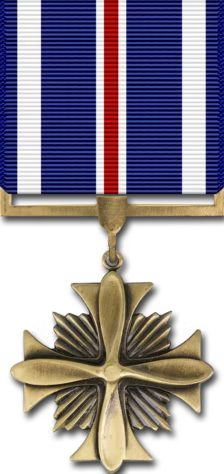
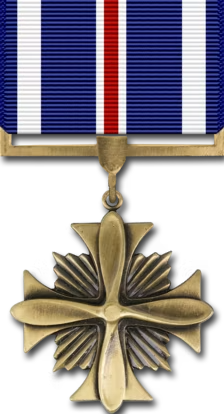
Full dress: shorten the ribbon, wear the medals larger
The medals read small on the coat. Cloth comes off the top of the drape -
the drop is shortened at the bar, as a mounter would, never at the medal.
Scaling the pendant up instead was not open to us: several already run the
full width of the drape, so there is nowhere sideways to go.

tools/shorten_medal_drape.py takes the rows off every drawn base and says
how deep a cut the set can stand. The limit is the devices: after cutting c
rows the zone is DRAPE_LENGTH - c and the cloth runs to solid - c, so a
device row centred in the zone has to keep its bottom edge on the cloth.
The Air Force set takes 83; 602031 takes only 33, and at 60 its devices
would overhang - a Navy medal, on a coat the game has no service for, and
noted rather than left to be discovered.

Cut 60. DRAPE 224x474 -> 224x414 and DRAPE_LENGTH 185 -> 125 together, or
the devices would be centred over cloth that is no longer there.

Cropping alone changes nothing about how large a medal appears: the coat
sizes them by width. So the Air Force medals go to 29% of the group from
25%, with the spacing put through the same geometry - a third of a medal at
four to a row, a half at five. Every row pull is re-derived too, because
each was a fraction of a height the drape no longer has; the naval and
Marine pulls keep their ratio exactly (0.517 before and after) and both
coats still hang correctly.

Also records in refresh_medal_art.py that the atlas is not a general source
[…]

diff --git a/korea_service_record/static/css/detail.css b/korea_service_record/static/css/detail.css
@@ -277,7 +277,7 @@ table.roster td.award-cell { white-space: normal; }
 .tunic.full .tunic-right { bottom: 31.4%; }
 .medal-group { width: 100%; display: flex; flex-direction: column; align-items: center; }
 .medal-row { position: relative; display: flex; justify-content: center; width: 100%; }
-.medal-row + .medal-row { margin-top: -25.6%; }
+.medal-row + .medal-row { margin-top: -22.36%; }
 .medal { position: relative; width: 25%; height: auto; display: block; filter: drop-shadow(0 2px 2px rgba(0, 0, 0, 0.5)); }
 /* Naval mounting (docs/NAVY_RACK.md 5-7, 10-11, 16). Every medal keeps its
    size; a row of four or five is fitted by moving the medals closer, not by
@@ -303,12 +303,23 @@ table.roster td.award-cell { white-space: normal; }
 /* The Air Force mounts three medals to a row like the Navy, but with its
    own overlap once a row runs wider: a third of a medal at four, a half at
    five, which is the 50% the regulation calls the limit. */
-.tunic[data-coat="usaf"] .medal-row.n4 .medal + .medal { margin-left: -8.333%; }
-.tunic[data-coat="usaf"] .medal-row.n5 .medal + .medal { margin-left: -12.5%; }
-.tunic[data-coat="usmc"] .medal-row + .medal-row { margin-top: -27.35%; }
+/* The drape is 224x414 - the ribbon was shortened at the bar so the medal
+   is a larger share of it - which makes a medal 1.848 times its width tall
+   rather than 2.116. Every row pull above is that same fraction of the new
+   height, so the rows show as much of each other as they always did.
+
+   Against the shortened drape the Air Force rack still read small, so its
+   medals are drawn at 29% of the container rather than 25%. The spacing is
+   the same geometry put through the larger medal: a third of one at four to
+   a row, a half at five, and a row pull of 0.484 of the new 53.6% height. */
+.tunic[data-coat="usaf"].full .medal { width: 29%; }
+.tunic[data-coat="usaf"] .medal-row.n4 .medal + .medal { margin-left: -9.667%; }
+.tunic[data-coat="usaf"] .medal-row.n5 .medal + .medal { margin-left: -14.5%; }
+.tunic[data-coat="usaf"].full .medal-row + .medal-row { margin-top: -25.94%; }
+.tunic[data-coat="usmc"] .medal-row + .medal-row { margin-top: -23.89%; }
 /* 58.19% of the container tall at the larger size, less the 48.3% of it the
    next row shows. */
-.tunic[data-coat="usnavy"] .medal-row + .medal-row { margin-top: -30.09%; }
+.tunic[data-coat="usnavy"] .medal-row + .medal-row { margin-top: -26.28%; }
 /* On the tie below the knot, the bow largely behind the collar points. */
 .tunic-neck { position: absolute; left: 46.5%; top: 0; width: 23%; transform: translateX(-50%); }
 .tunic-neck:empty { display: none; }

diff --git a/tools/shorten_medal_drape.py b/tools/shorten_medal_drape.py
@@ -1,0 +1,130 @@
+"""
+Take ribbon cloth off the top of every drawn medal, so the medal is a
+larger share of its drape.
+
+    python tools/shorten_medal_drape.py <rows> [--dry-run] [--sheet out.png]
+
+The full-size medals on the dress coat are composed from bases in
+``static/images/medals``: a drape ``medals.DRAPE`` wide and tall, with the
+ribbon full-width at the top, the devices laid over its first
+``DRAPE_LENGTH`` rows, and the medal hanging below. The ribbon was drawn
+long, and against it the medal reads small.
+
+Cloth is taken from the *top*, never from the medal. Scaling the pendant up
+instead is not open to us: several are already the full width of the drape,
+so there is nowhere sideways for them to go, and stretching the canvas back
+to height after a crop would only distort them. Cutting the ribbon is also
+what a mounter does - the drop is shortened at the bar, not at the medal.
+
+``DRAPE`` and ``DRAPE_LENGTH`` must come down by the same number of rows, or
+the devices would be centred over cloth that is no longer there. This script
+reports the new values; medals.py is edited by hand so the change shows in
+the diff rather than hiding in a generated constant.
+"""
+
+import argparse
+import sys
+from pathlib import Path
+
+REPO = Path(__file__).resolve().parent.parent
+sys.path.insert(0, str(REPO))
+
+from korea_service_record import medals                       # noqa: E402
+
+ART = REPO / "korea_service_record" / "static" / "images" / "medals"
+
+# How tall a row of devices runs on the drape. Clusters are the big ones;
+# this is the height that has to sit on solid cloth.
+DEVICE_H = 60
+
+
+def solid_ribbon(img) -> int:
+    """
+    The last row where the ribbon still runs its own full width.
+
+    Measured against the widest the picture gets, not against the canvas:
+    the Navy Cross ribbon is 208 across on a 224 drape, and a test against
+    the canvas says it is never solid at all.
+    """
+    import numpy as np
+
+    opaque = np.asarray(img.convert("RGBA"))[..., 3] > 100
+    widths = opaque.sum(axis=1)
+    if not widths.max():
+        return 0
+    full = np.where(widths >= 0.95 * widths.max())[0]
+    return int(full.max()) if len(full) else 0
+
+
+def max_crop(solid: int) -> int:
+    """
+    The deepest cut this picture can take.
+
+    After cutting c rows the device zone is ``DRAPE_LENGTH - c`` and the
+    cloth runs to ``solid - c``. A device row is centred in the zone, so its
+    bottom edge falls at ``(DRAPE_LENGTH - c + DEVICE_H) / 2``, and that has
+    to stay on the cloth.
+    """
+    return int(2 * solid - medals.DRAPE_LENGTH - DEVICE_H)
+
+
+def main() -> int:
+    from PIL import Image
+
+    ap = argparse.ArgumentParser(description=__doc__,
+                                 formatter_class=argparse.RawDescriptionHelpFormatter)
+    ap.add_argument("rows", type=int, help="rows of ribbon to remove from the top")
+    ap.add_argument("--dry-run", action="store_true")
+    ap.add_argument("--only", help="comma-separated stems, default every drawn base")
+    ap.add_argument("--sheet", type=Path)
+    args = ap.parse_args()
+
+    wanted = set(args.only.split(",")) if args.only else None
+    bases = [p for p in sorted(ART.glob("[0-9]*.png"))
+             if p.stem.isdigit() and (wanted is None or p.stem in wanted)]
+
+    pairs, worst, worst_who = [], None, None
+    for path in bases:
+        img = Image.open(path).convert("RGBA")
+        if img.size != medals.DRAPE:
+            img = img.resize(medals.DRAPE, Image.LANCZOS)
+        solid = solid_ribbon(img)
+        allowed = max_crop(solid)
+        if worst is None or allowed < worst:
+            worst, worst_who = allowed, path.stem
+        out = img.crop((0, args.rows, img.width, img.height))
+        flag = "" if args.rows <= allowed else "   <- devices would overhang"
+        print(f"  {path.stem}: cloth solid to {solid:3d}, takes up to {allowed:3d} rows{flag}")
+        pairs.append((path.stem, img, out))
+        if not args.dry_run:
+            out.save(path, optimize=True)
+
+    print(f"\ndeepest cut every picture can take: {worst} rows ({worst_who})")
+    if args.rows > worst:
+        print(f"asked for {args.rows}")
+    print(f"then in medals.py:  DRAPE = ({medals.DRAPE[0]}, {medals.DRAPE[1] - args.rows})"
+          f"   DRAPE_LENGTH = {medals.DRAPE_LENGTH - args.rows}")
+
+    if args.sheet and pairs:
+        from PIL import ImageDraw
+        cell, pad, per_row, label = medals.DRAPE[0], 14, 6, 20
+        cols = min(per_row, len(pairs))
+        nrows = (len(pairs) + per_row - 1) // per_row
+        pw, h = cell * 2 + pad, medals.DRAPE[1]
+        sheet = Image.new("RGBA", (cols * (pw + pad) + pad,
+                                   nrows * (h + label + pad) + pad), (242, 236, 220, 255))
+        draw = ImageDraw.Draw(sheet)
+        for i, (name, before, after) in enumerate(pairs):
+            cx = pad + (i % per_row) * (pw + pad)
+            cy = pad + (i // per_row) * (h + label + pad)
+            draw.text((cx, cy + 3), f"{name}  before | after", fill=(90, 70, 40, 255))
+            sheet.alpha_composite(before, (cx, cy + label))
+            sheet.alpha_composite(after, (cx + cell + pad, cy + label))
+        args.sheet.parent.mkdir(parents=True, exist_ok=True)
+        sheet.convert("RGB").save(args.sheet)
+        print(f"Sheet: {args.sheet}")
+    return 0
+
+
+if __name__ == "__main__":
+    raise SystemExit(main())

diff --git a/tools/refresh_medal_art.py b/tools/refresh_medal_art.py
@@ -22,6 +22,17 @@ suspension ring or the clasp. It is found in both pictures, the tile's
 pendant is scaled to the width the old one had (or to the height left in
 the canvas, whichever is the tighter fit), and it is hung centred with its
 top on the old waist.
+
+DO NOT run this over the set. The atlas is not a general source for these
+bases: they were painted for the dress coat and the atlas tiles are a
+different rendering, systematically brighter and not always the same
+design. The Legion of Merit is the plain case - the drawn one has the green
+laurel wreath and no atlas tile has a single green pixel in it. Reach for
+this only when a particular medal has been remodelled in the mod and the
+tile is the wanted picture, and look at --sheet before writing.
+
+Used so far for 601008 and 601018, whose drawn bases were a brass Bronze
+Star and the old Silver Star.
 """
 
 import argparse

diff --git a/korea_service_record/medals.py b/korea_service_record/medals.py
@@ -30,7 +30,7 @@ logger = logging.getLogger(__name__)
 
 ART = Path(__file__).resolve().parent / "static" / "images" / "medals"
 # Bump whenever the composition or the art changes; it is part of the URLs.
-REVISION = 23
+REVISION = 24
 
 # --- US: drawn art -----------------------------------------------------------
 # Every base medal is drawn 224 px wide - the drape is 1 3/8 inch, the same
@@ -38,8 +38,8 @@ REVISION = 23
 # and 474 px tall, the top of the drape at the top edge. The straight part of
 # the drape runs 185 px before it tapers to the suspension ring; devices are
 # centred on that.
-DRAPE = (224, 474)
-DRAPE_LENGTH = 185
+DRAPE = (224, 414)
+DRAPE_LENGTH = 125
 DEVICE_SCALE = DRAPE[0] / ribbons.BAR[0]
 # A cluster on the suspension ribbon is the 13/32" one, not the bar's 5/16"
 # (DEVICE_RULES.md 2); stars are the same size on both. Four clusters go
